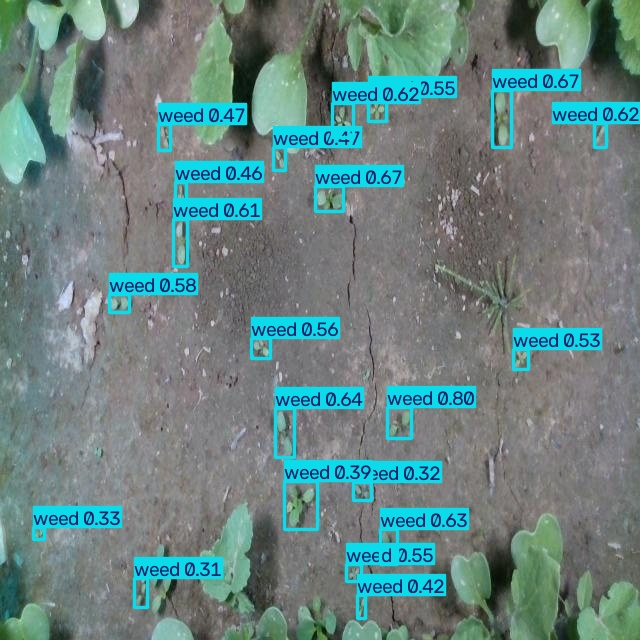
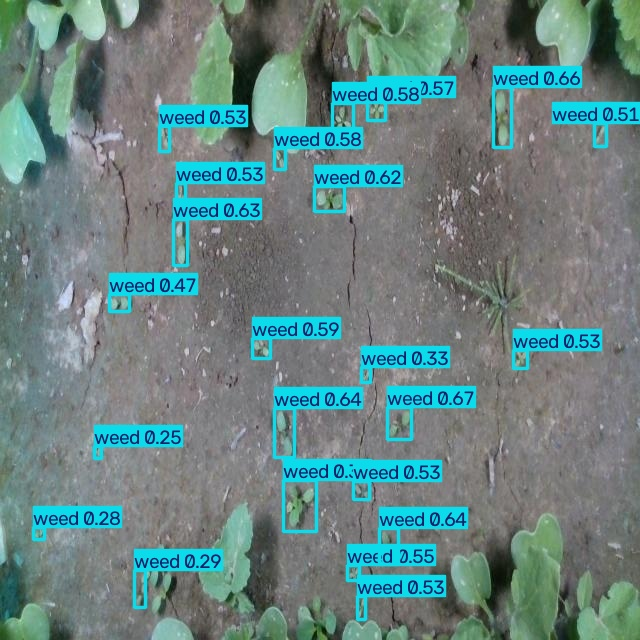
results: yolo11s run - recall 0.61->0.73, mAP@50 0.72->0.73 on test
Continuation training with yolo11s (~40 epochs) on Francesco/weed-crop-aerial:
  test P 0.711 | R 0.725 | mAP@50 0.733 | mAP@50:95 0.397
Main gain: missed weeds down from 19% to 13% of true boxes.

- README: yolo11n vs yolo11s comparison table, updated limitations
- docs/ERROR_ANALYSIS.md: yolo11s findings + confusion matrix + OneDrive I/O note
- results/: refreshed metrics, curves, confusion matrix, 8 sample detections

diff --git a/README.md b/README.md
@@ -164,26 +164,31 @@ confidences, so **mAP is the primary metric**.
 
 ### Results
 
-Real numbers from `src/evaluate.py` on the **235-image test split** — model:
-`yolo11n`, 20 epochs, imgsz 640, optimizer **AdamW** (auto-selected), CPU.
-Dataset: `Francesco/weed-crop-aerial` (2 classes: `crop`, `weed`).
+Real numbers from `src/evaluate.py` on the **235-image test split**.
+Dataset: `Francesco/weed-crop-aerial` (2 classes: `crop`, `weed`), imgsz 640,
+optimizer **AdamW** (auto-selected), trained on CPU. Two models were run:
 
-| Metric | Overall | crop | weed |
-|---|---|---|---|
-| Precision | **0.759** | 0.707 | 0.811 |
-| Recall | **0.608** | 0.617 | 0.600 |
-| mAP@50 | **0.717** | 0.653 | 0.781 |
-| mAP@50:95 | **0.380** | 0.340 | 0.421 |
+| Test metric | `yolo11n` (20 epochs) | **`yolo11s` (~40 epochs)** |
+|---|---|---|
+| Precision | 0.759 | 0.711 |
+| Recall | 0.608 | **0.725** |
+| mAP@50 | 0.717 | **0.733** |
+| mAP@50:95 | 0.380 | **0.397** |
+
+Going from `yolo11n` to `yolo11s` (3.5x the parameters) plus more epochs lifted
+**recall from 0.61 to 0.73** — the model now misses far fewer weeds, which was
+the main weakness. Precision dropped slightly (it makes more detections, so a few
+more false positives). `yolo11s` per class: weed mAP@50 0.781 / crop 0.685.
 
 ![training curves](results/training_curves.png)
 
-The loss curves are still falling and validation mAP is still rising at epoch 20
-— the model is **under-trained, not over-fit** (train/val losses track closely).
-More epochs (or a larger model) would raise these numbers; 20 was chosen to keep
-the CPU run to a few hours. Regenerate the plot with
-`python src/plot_results.py --run results/runs/<run>`.
+Even at 40 epochs the validation curves had not fully plateaued — more epochs, a
+GPU (to train `yolo11m`), and moving the dataset off a cloud-synced folder (disk
+reads were the training bottleneck) are the obvious next gains.
 
-Full metrics + per-class JSON: [results/metrics_test.json](results/metrics_test.json).
+Full metrics + per-class JSON: [results/metrics_test.json](results/metrics_test.json)
+(currently the `yolo11s` run). Best weights: `results/runs/weed_yolo11s_run2b/weights/best.pt`
+(git-ignored — regenerate with `src/train.py`).
 Test-set PR curve: `results/test_PR_curve.png`; confusion matrix:
 `results/test_confusion_matrix_normalized.png`.
 
@@ -212,25 +217,24 @@ Eight example detections from the test set are in
 
 ## Limitations
 
-Observed on this run — see the test-set confusion matrix and
+Observed on the `yolo11s` run — see the test-set confusion matrix and
 **[docs/ERROR_ANALYSIS.md](docs/ERROR_ANALYSIS.md)** for the full breakdown:
 
-- **Missed weeds (false negatives) are the biggest issue** — recall 0.60, i.e.
-  ~40% of weeds are not detected. The normalised confusion matrix shows 19% of
-  true weeds and 30% of true crops predicted as background.
-- **Background → "weed" false positives:** of all detections fired on
-  background regions, 94% are labelled `weed` — soil texture, residue and dead
-  leaves trigger low-confidence weed boxes (visible in the sample images).
-- **Crop/weed confusion is low** here (~4% crop→weed, ~0% weed→crop) — the
-  aerial crop rows are visually distinct from scattered weeds in this dataset.
-- **Crop class is weaker** (mAP@50 0.65 vs 0.78 for weed) — only ~410 crop
+- **Missed weeds** are still the main error, though much improved — recall 0.73
+  (was 0.60 with `yolo11n`), so ~27% of weeds are still not detected.
+- **Background → "weed" false positives:** soil texture, residue and dead leaves
+  trigger mostly low-confidence weed boxes; raising `--conf` to ~0.4 trades a
+  little recall for fewer false alarms.
+- **Crop/weed confusion is low** — the aerial crop rows are visually distinct
+  from scattered weeds in this dataset. Expect worse on ground-level datasets.
+- **Crop class is weaker** (mAP@50 0.69 vs 0.78 for weed) — only ~410 crop
   instances vs ~7,400 weed in training (class imbalance).
-- **Under-trained:** 20 epochs on CPU; val metrics had not plateaued.
+- **Not fully converged:** ~40 epochs on CPU; validation metrics were still
+  drifting up.
 - **Small / early-growth weeds** are the low-confidence detections (0.25–0.45);
   many are near the `--conf` cutoff and flip in/out with the threshold.
 - **Domain gap:** trained on one aerial crop/weed dataset — expect to
   re-fine-tune for a new crop, region, altitude or camera.
-- **Nano model:** optimised for speed; `yolo11s/m` would recover accuracy.
 - Metrics here are **offline image metrics**, not a field-measured herbicide or
   yield outcome.
 

diff --git a/docs/ERROR_ANALYSIS.md b/docs/ERROR_ANALYSIS.md
@@ -2,33 +2,40 @@
 
 ---
 
-## Findings — run `weed_yolo11n_run1`
+## Findings — `yolo11s` run (`weed_yolo11s_run2b`)
 
-**Setup:** `yolo11n`, 20 epochs, imgsz 640, AdamW (auto), CPU. Dataset
-`Francesco/weed-crop-aerial`, evaluated on the untouched **235-image test split**
-(1,605 boxes: 1,558 weed, 47 crop).
+**Setup:** `yolo11s`, ~40 epochs total (20 as `yolo11n` baseline concept; this
+run is a continuation of an earlier `yolo11s` run), imgsz 640, AdamW (auto), CPU.
+Dataset `Francesco/weed-crop-aerial`, evaluated on the untouched **235-image test
+split** (1,605 boxes: 1,558 weed, 47 crop).
 
-**Test metrics:** P 0.759 · R 0.608 · mAP@50 0.717 · mAP@50:95 0.380
-(weed: mAP@50 0.781 / crop: mAP@50 0.653).
+**Test metrics (vs the `yolo11n` 20-epoch baseline):**
 
-**Normalised confusion matrix (columns = ground truth):**
+| | yolo11n | **yolo11s** |
+|---|---|---|
+| Precision | 0.759 | 0.711 |
+| Recall | 0.608 | **0.725** |
+| mAP@50 | 0.717 | **0.733** |
+| mAP@50:95 | 0.380 | **0.397** |
+
+**`yolo11s` normalised confusion matrix (columns = ground truth):**
 
 | true \ pred | crop | weed | background (missed) |
 |---|---|---|---|
-| **crop** | 0.66 | 0.04 | **0.30** |
-| **weed** | 0.00 | 0.81 | **0.19** |
-| **background** (→ false positive) | 0.06 | **0.94** | – |
+| **crop** | 0.64 | 0.04 | **0.32** |
+| **weed** | 0.00 | **0.87** | 0.13 |
+| **background** (→ false positive) | 0.03 | **0.97** | – |
 
-### 1. False negatives — the dominant error
-- **~40% of weeds are missed** (recall 0.60). 19% of true weed boxes and 30% of
-  true crop boxes are predicted as background.
-- Causes seen in `results/predictions/run1_test/`: tiny early-growth seedlings,
+### 1. False negatives — still the main error, but improved
+- **~27% of weeds are missed** (recall 0.73, up from 0.60). Missed weeds fell
+  from 19% → **13%** of true weed boxes; missed crop is still ~32%.
+- Causes seen in `results/predictions/run2b_test/`: tiny early-growth seedlings,
   weeds at the image border, plants partly hidden by soil clods / shadow.
-- The training curves (`results/training_curves.png`) show val mAP still rising
-  at epoch 20 → the model is **under-trained**; more epochs should lift recall.
+- Training curves (`results/training_curves.png`) had not fully plateaued → more
+  epochs / a GPU would help further.
 
 ### 2. Background → "weed" false positives
-- Of every detection placed on a background region, **94% are labelled `weed`**.
+- Of every detection placed on a background region, **97% are labelled `weed`**.
 - Trigger: soil texture, dead/curled leaves, crop residue, dry stems. These come
   out as **low-confidence** boxes (0.25–0.45 in the samples), so raising
   `--conf` to ~0.4 trades a little recall for noticeably fewer false alarms.
@@ -54,10 +61,17 @@
   dataset (imagery is mostly even daylight).
 
 ### What would most improve this model (in order)
-1. Train longer (60–100 epochs) — biggest, cheapest win; needs a GPU.
-2. Higher inference resolution / tiling for small weeds.
-3. `yolo11s` instead of `yolo11n`.
+1. Train longer (100+ epochs) on a **GPU** — the CPU run capped how far we got.
+2. `yolo11m` instead of `yolo11s`.
+3. Higher inference resolution / tiling for small weeds.
 4. More `crop` training examples to fix the imbalance.
+
+### Engineering note (not a model issue)
+Training/eval printed `Slow image access ... read: ~1 MB/s` — the dataset lives
+in a **OneDrive-synced folder**, so every epoch re-reads images through the sync
+layer and that was the real training bottleneck (epochs ran 2–3x slower than the
+CPU alone would). Move `dataset/` to a plain local folder (e.g. `C:\weed_data`)
+and update `path:` in `configs/data.yaml`, or use `--cache disk`.
 
 ---
 
